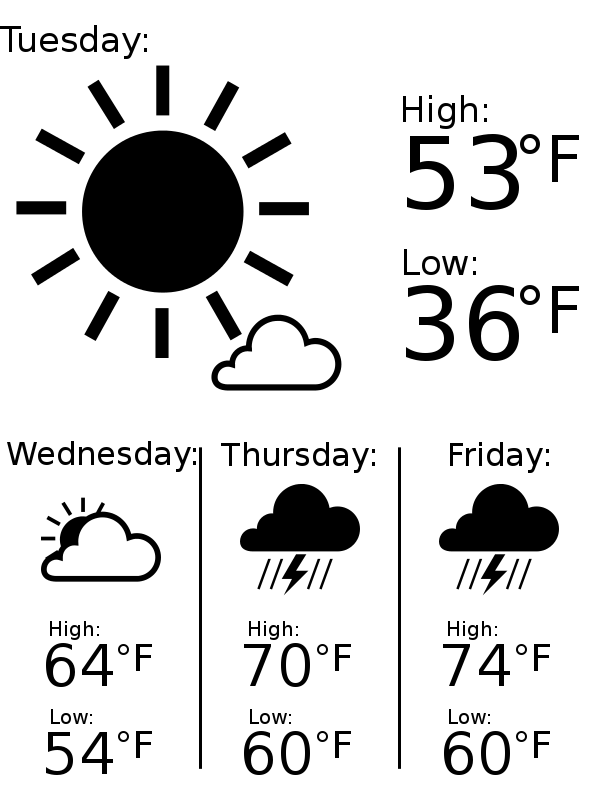
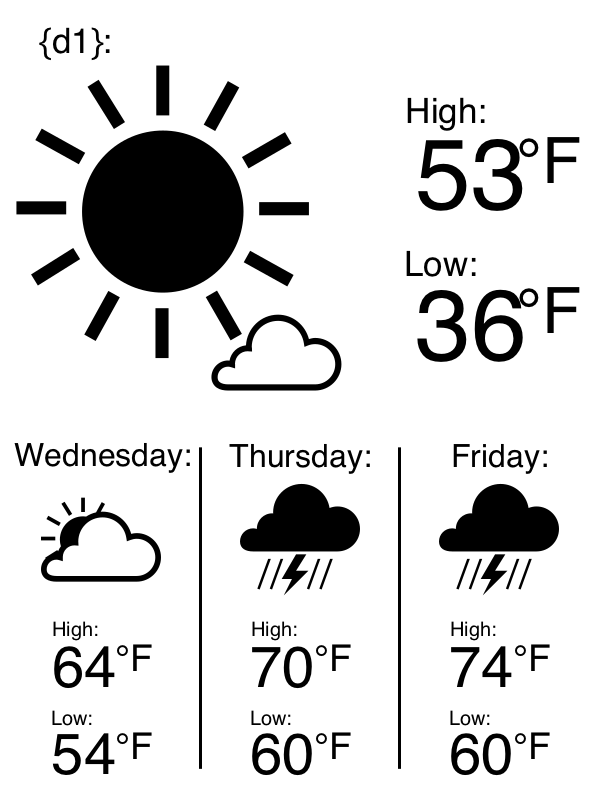
Changed SVG to use string.format syntax
Rather than using .replace on a string, the code now assumes the SVG
file has string.format() formatted syntax. Thus the Python script
creates a dictionary using 0-4 naming convention to specify the days,
and the SVG can use the formatting mini-language to adjust presentation.

diff --git a/server/weather-script.py b/server/weather-script.py
@@ -7,6 +7,8 @@
 from xml.dom import minidom
 import datetime
 import codecs
+from dateutil.parser import parse
+from dateutil.tz import tzlocal
 try:
     # Python 3
     from urllib.request import urlopen
@@ -18,8 +20,8 @@ except ImportError:
 # Geographic location
 #
 
-latitude = 29.7380133
-longitude = -95.4025701
+latitude = 29.74
+longitude = -95.40
 
 
 
@@ -28,7 +30,8 @@ longitude = -95.4025701
 #
 
 # Fetch data (change lat and lon to desired location)
-weather_xml = urlopen('http://graphical.weather.gov/xml/SOAP_server/ndfdSOAPclientByDay.php?whichClient=NDFDgenByDay&lat=' + str(latitude) + '&lon=' + str(longitude) + '&format=24+hourly&numDays=4&Unit=e').read()
+url_encoded = 'http://graphical.weather.gov/xml/SOAP_server/ndfdSOAPclientByDay.php?whichClient=NDFDgenByDay&lat={}&lon={}&format=24+hourly&numDays=4&Unit=e'.format(latitude, longitude)
+weather_xml = urlopen(url_encoded).read()
 dom = minidom.parseString(weather_xml)
 
 # Parse temperatures
@@ -54,25 +57,26 @@ for i in range(len(xml_icons)):
 # Parse dates
 xml_day_one = dom.getElementsByTagName('start-valid-time')[0].firstChild.nodeValue[0:10]
 day_one = datetime.datetime.strptime(xml_day_one, '%Y-%m-%d')
+full_day_one = dom.getElementsByTagName('creation-date')[0].firstChild.nodeValue
 
-
+print(full_day_one)
 
 #
 # Preprocess SVG
 #
+one_day = datetime.timedelta(days=1)
+
+info_dict = {'date' : parse(full_day_one).astimezone(tzlocal())}
+for i in range(4):  # 4 day forcast
+    info_dict['day{}'.format(i)] = (day_one + i*one_day).strftime("%A")
+    info_dict['high{}'.format(i)] = highs[i]
+    info_dict['low{}'.format(i)] = lows[i]
+    info_dict['icon{}'.format(i)] = icons[i]
 
 # Open SVG to process
-output = codecs.open('weather-script-preprocess.svg', 'r', encoding='utf-8').read()
+output = codecs.open('weather-script-preprocess.svg', 'r',  encoding='utf-8').read()
 
-# Insert icons and temperatures
-output = output.replace('ICON_ONE',icons[0]).replace('ICON_TWO',icons[1]).replace('ICON_THREE',icons[2]).replace('ICON_FOUR',icons[3])
-output = output.replace('HIGH_ONE',str(highs[0])).replace('HIGH_TWO',str(highs[1])).replace('HIGH_THREE',str(highs[2])).replace('HIGH_FOUR',str(highs[3]))
-output = output.replace('LOW_ONE',str(lows[0])).replace('LOW_TWO',str(lows[1])).replace('LOW_THREE',str(lows[2])).replace('LOW_FOUR',str(lows[3]))
-
-# Insert days of week
-one_day = datetime.timedelta(days=1)
-days_of_week = ['Monday', 'Tuesday', 'Wednesday', 'Thursday', 'Friday', 'Saturday', 'Sunday']
-output = output.replace('DAY_ONE',days_of_week[(day_one + 0*one_day).weekday()]).replace('DAY_TWO',days_of_week[(day_one + 1*one_day).weekday()]).replace('DAY_THREE',days_of_week[(day_one + 2*one_day).weekday()]).replace('DAY_FOUR',days_of_week[(day_one + 3*one_day).weekday()])
-
+output = output
 # Write output
-codecs.open('weather-script-output.svg', 'w', encoding='utf-8').write(output)
+codecs.open('weather-script-output.svg', 'w',
+             encoding='utf-8').write(output.format(**info_dict))
